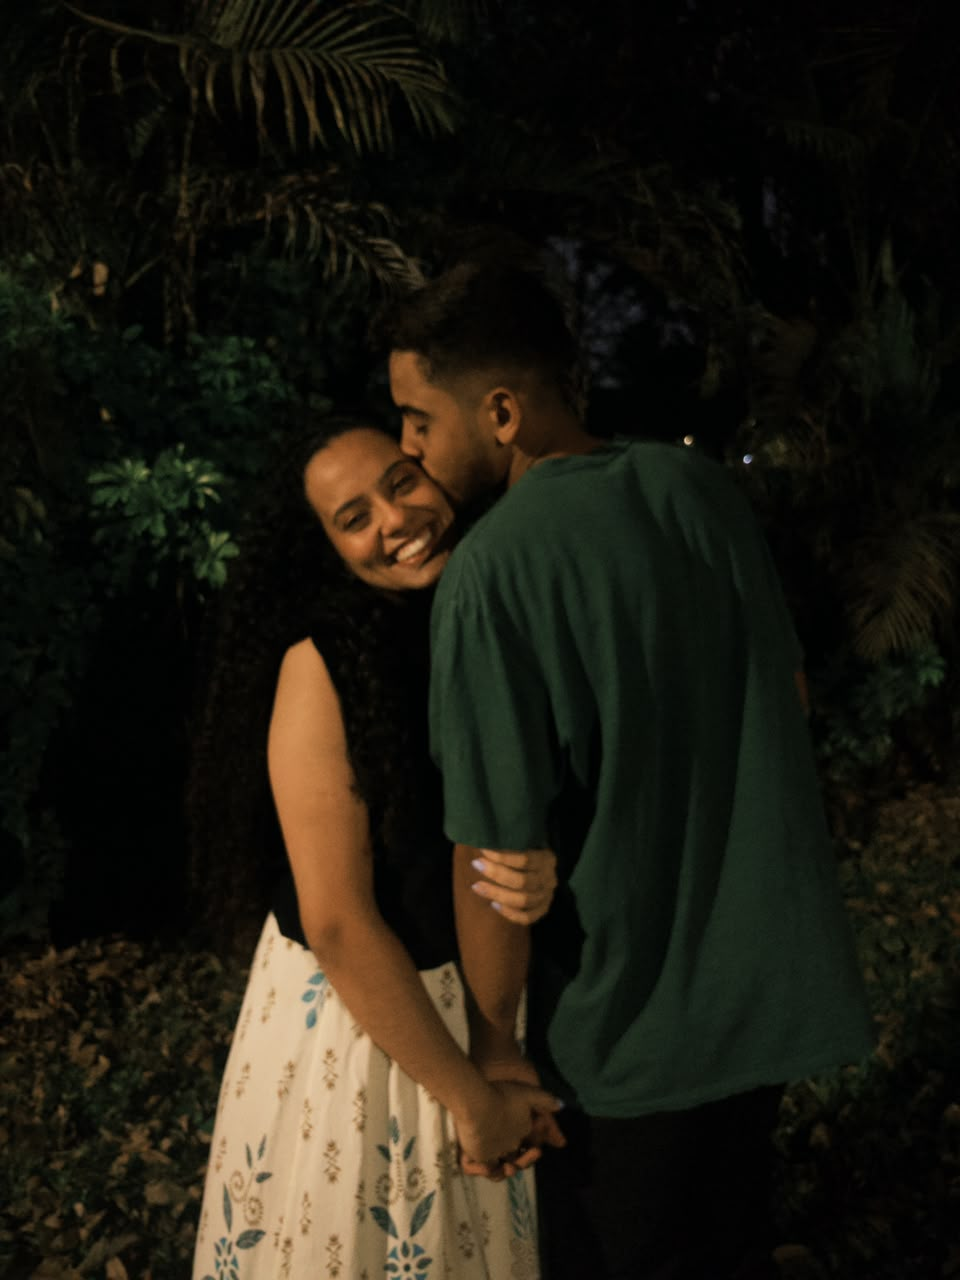
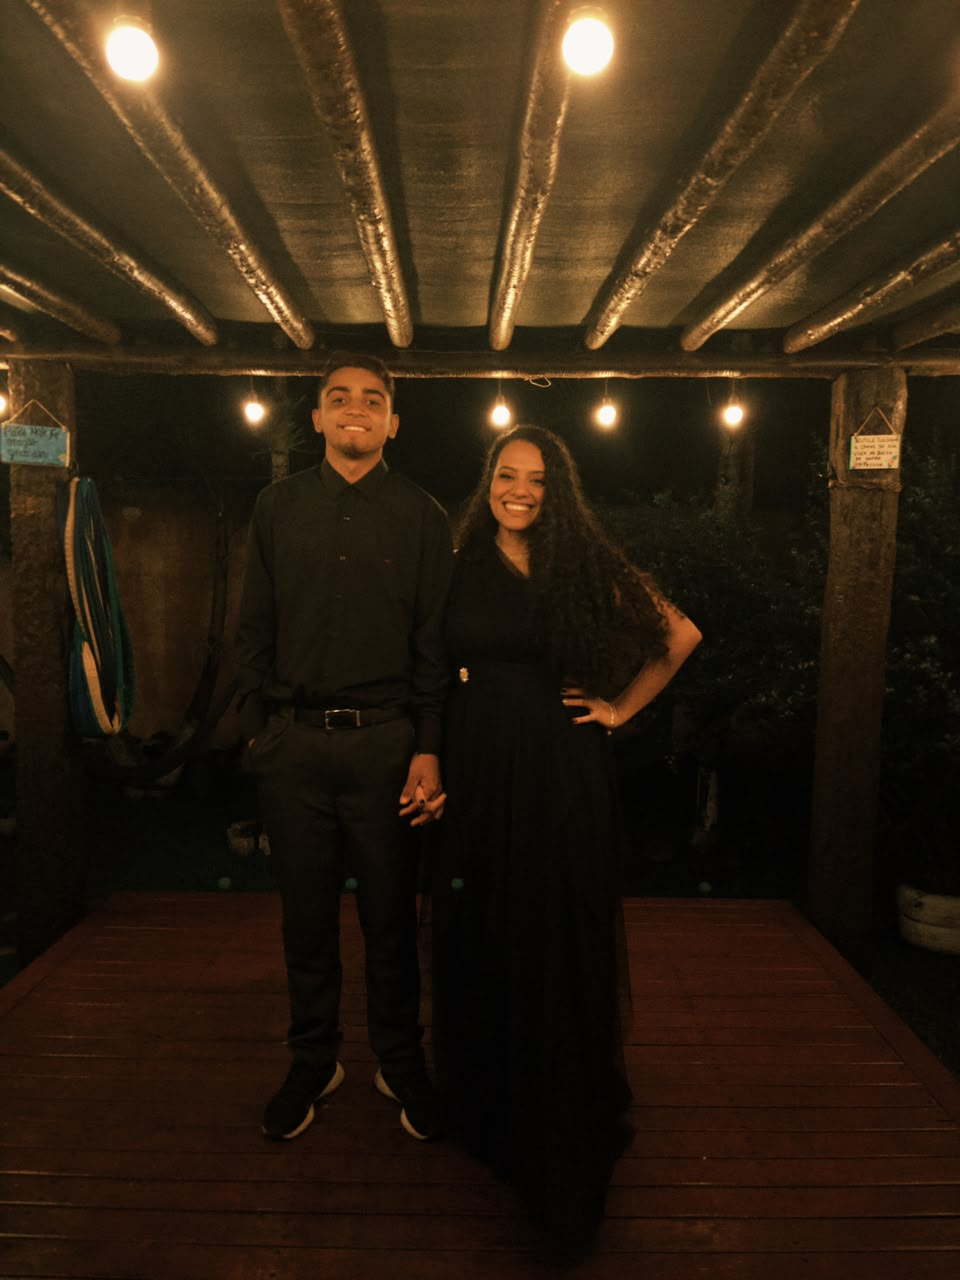
Troca a foto do casal no topo do convite
Claude-Session: https://claude.ai/code/session_01SDN43qUhd87ySCKx8ABqUc

diff --git a/index.html b/index.html
@@ -80,7 +80,7 @@
     padding:0 0 96px;overflow:hidden;background:var(--cream);
   }
   .hero-photo-wrap{position:relative;width:100%;height:clamp(440px,70svh,700px);overflow:hidden;}
-  .hero-photo-wrap img{width:100%;height:100%;object-fit:cover;object-position:center 35%;display:block;}
+  .hero-photo-wrap img{width:100%;height:100%;object-fit:cover;object-position:center 30%;display:block;}
   .hero-photo-wrap::after{
     content:"";position:absolute;left:0;right:0;bottom:-1px;height:45%;pointer-events:none;
     background:linear-gradient(to bottom,rgba(248,245,251,0) 0%,rgba(248,245,251,.6) 55%,var(--cream) 100%);
